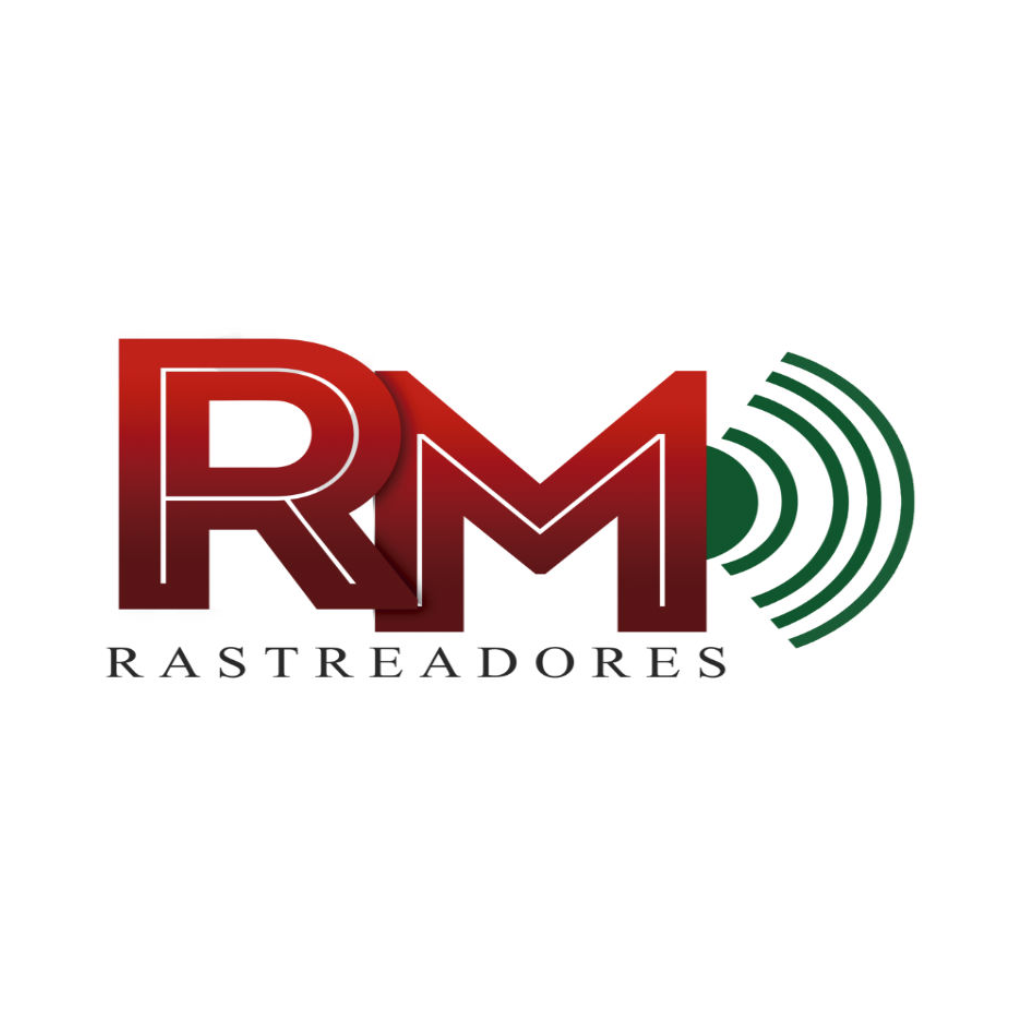
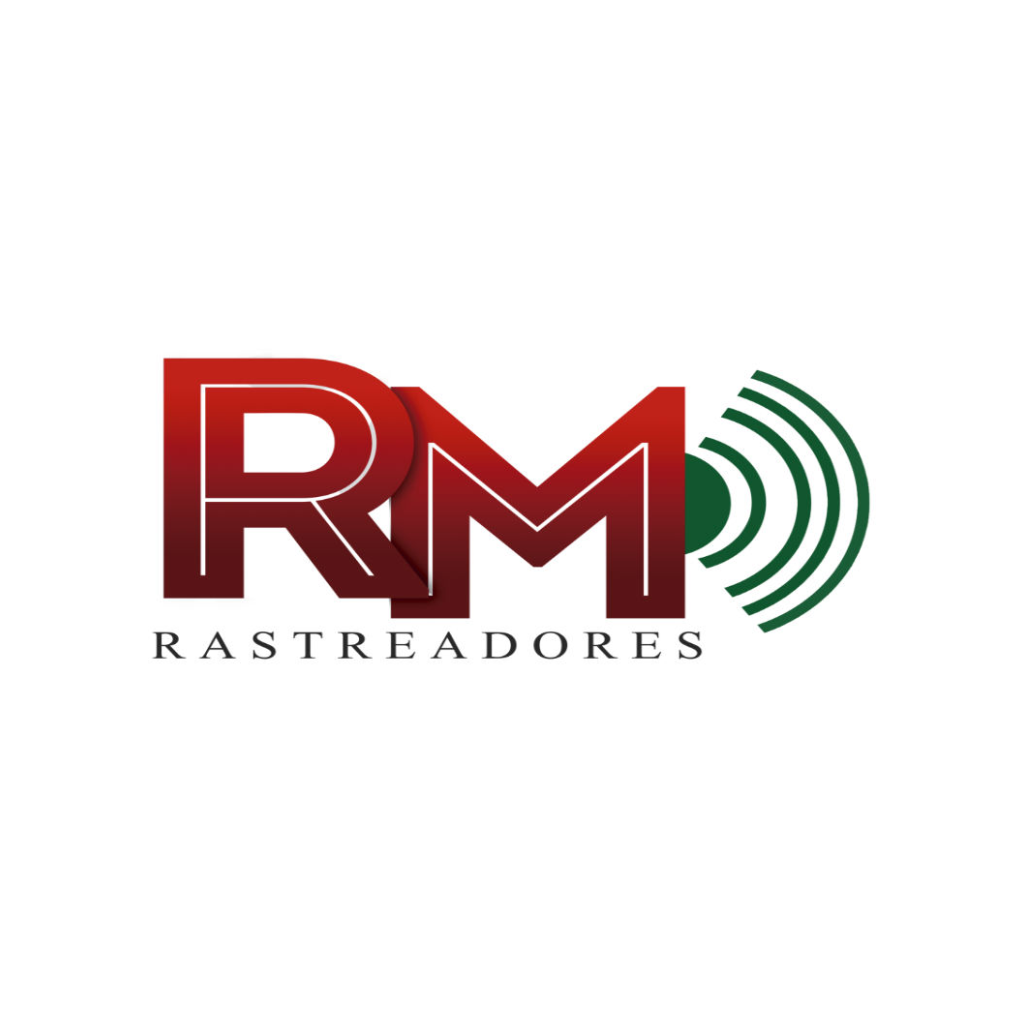
...

Changed region(s): [[0.0938, 0.3125, 0.9062, 0.6875]]

diff --git a/ios/WhiteLabelConfig.swift b/ios/WhiteLabelConfig.swift
@@ -28,6 +28,12 @@ enum WhiteLabelResolver {
             appName: "RM Rastreadores",
             siteURL: URL(string: "https://rastrear.rmrastreadores.com/")!,
             allowedHost: "rastrear.rmrastreadores.com"
+        ),
+        "atualizasom": WhiteLabelConfig(
+            key: "atualizasom",
+            appName: "Atualizasom Rastreamento",
+            siteURL: URL(string: "https://rastreamento.atualizasom.com.br/")!,
+            allowedHost: "rastreamento.atualizasom.com.br"
         )
     ]
 